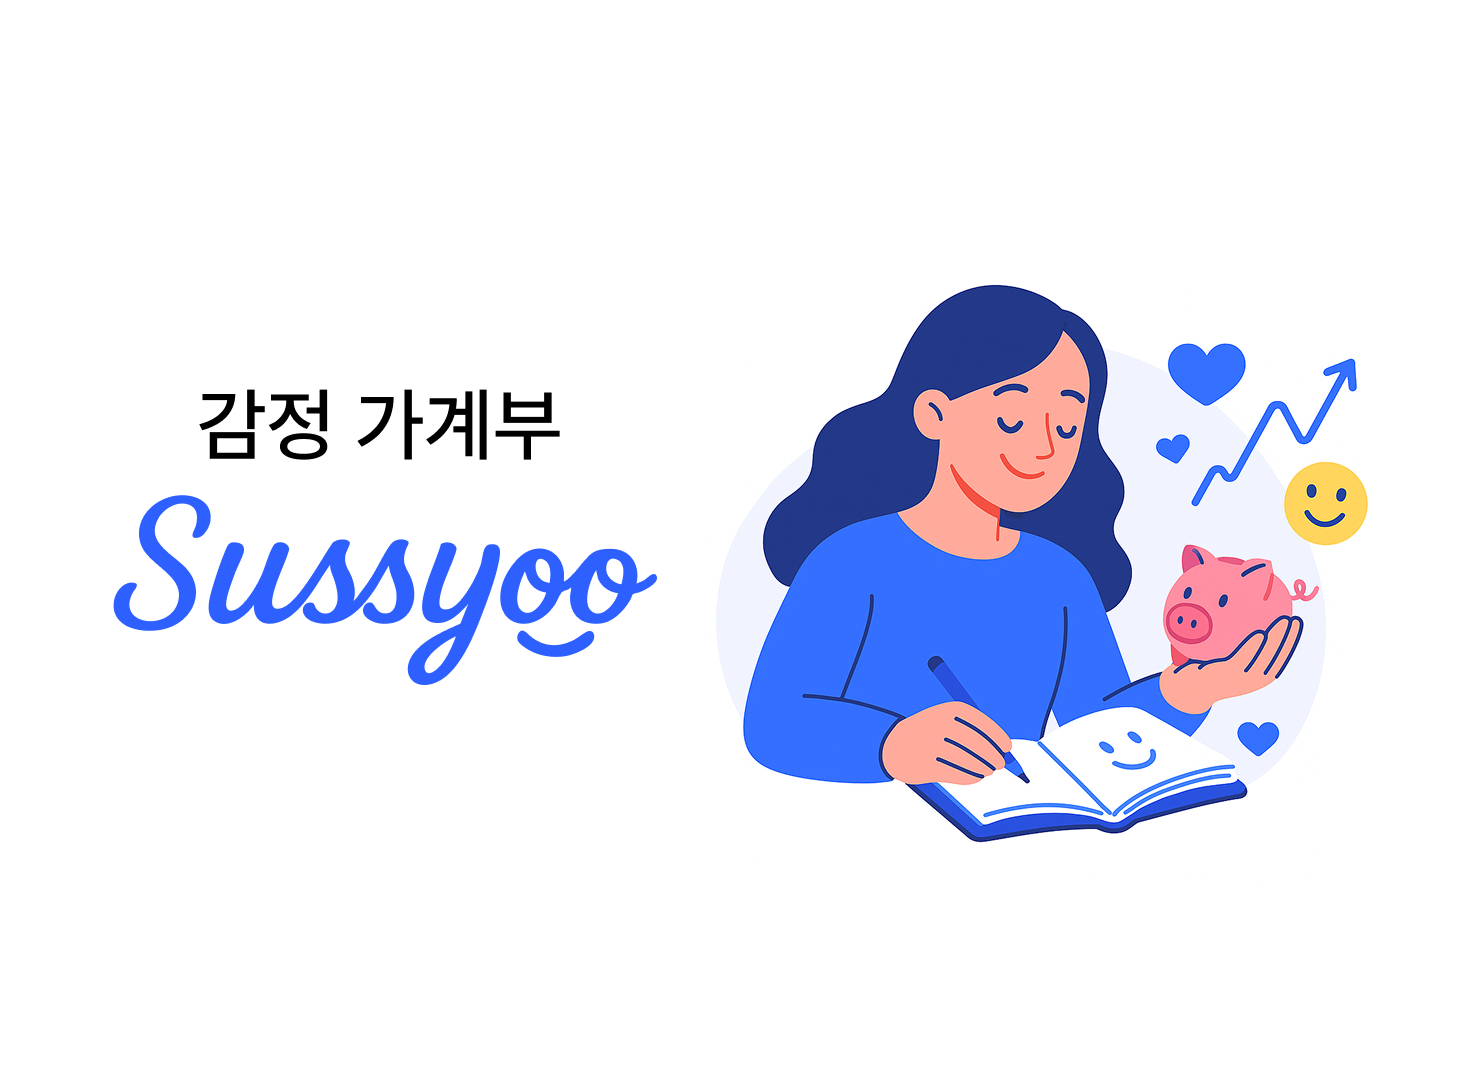
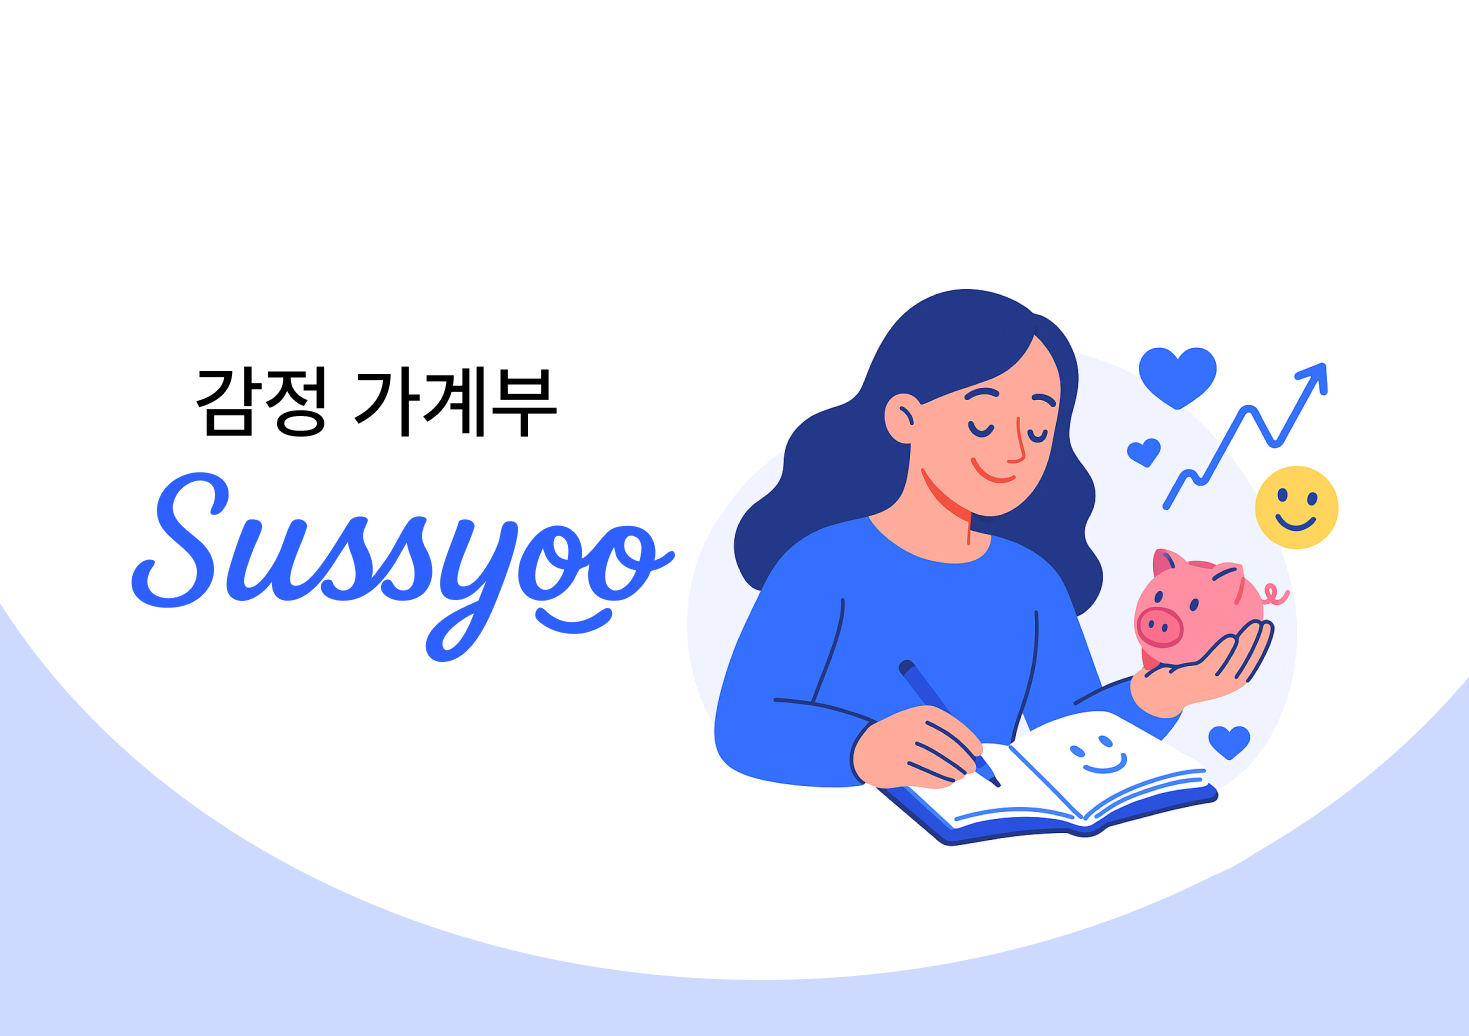
feat : SEO 사이트 이름 변경 및 og 이미지 사이즈 조정

Changed region(s): [[0.0, 0.5869, 1.0, 1.0], [0.4595, 0.2471, 0.9496, 0.834], [0.0613, 0.3398, 0.4595, 0.6486]]

diff --git a/index.html b/index.html
@@ -9,7 +9,7 @@
     <link rel="icon" type="image/svg+xml" href="/favicon.svg" />
     <meta property="og:title" content="써쓔" />
     <meta property="og:image" content="/ogImage.png" />
-    <meta property="og:site_name" content="써쓔" />
+    <meta property="og:site_name" content="써쓔 - 감정 기반 가계부" />
   </head>
   <body>
     <div id="root"></div>
